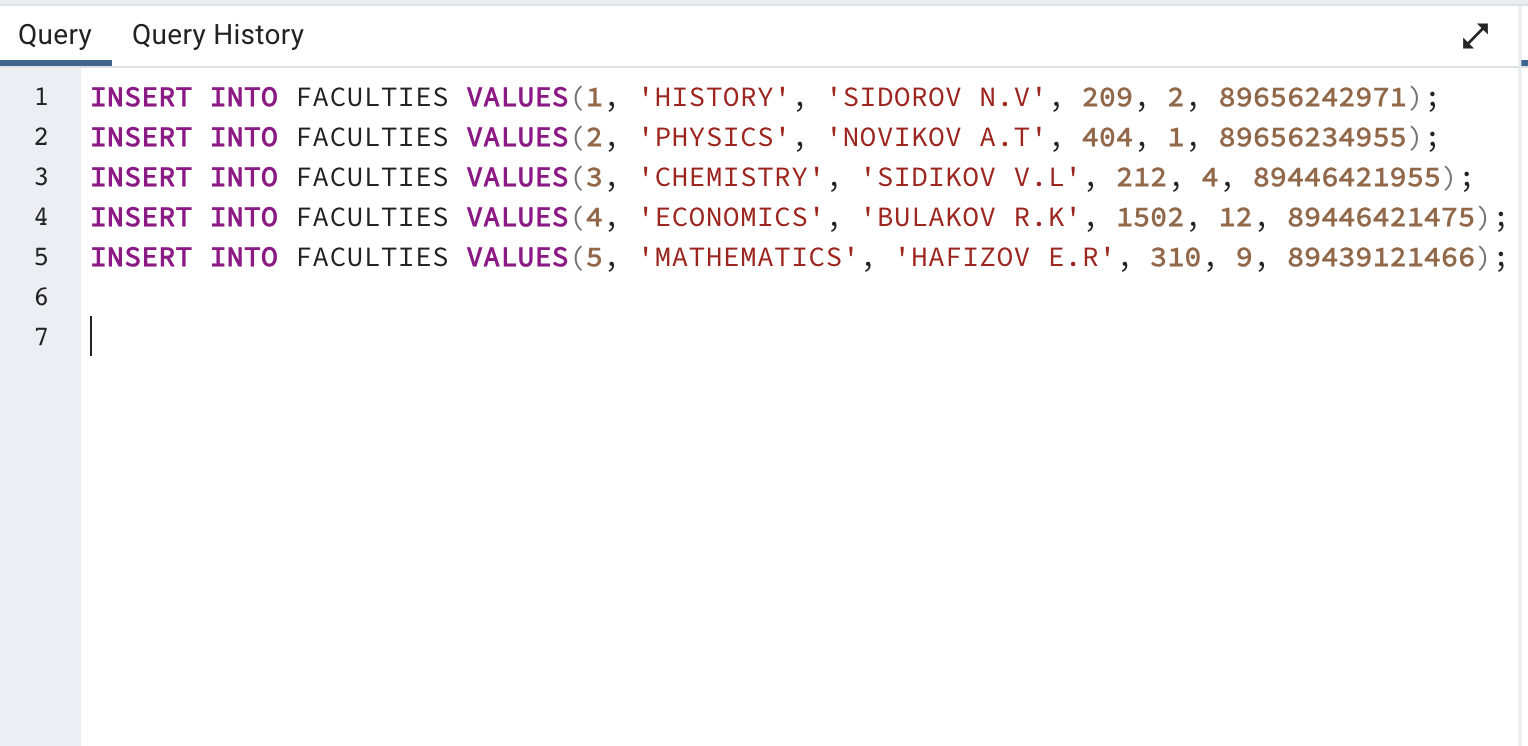
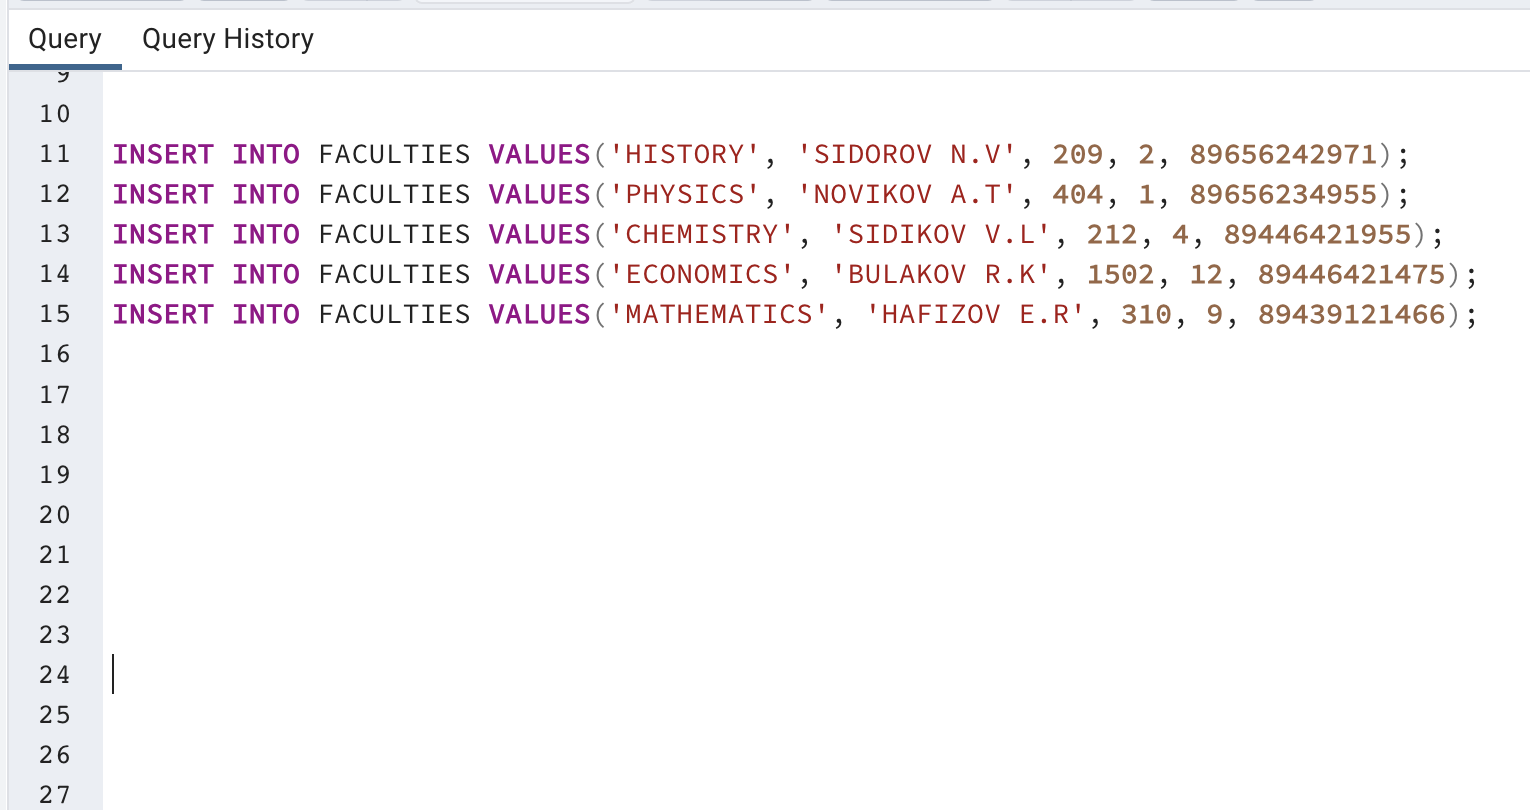
Add files via upload

diff --git a/Database/homework_2/README.md b/Database/homework_2/README.md
@@ -7,12 +7,12 @@
     - [Таблица "группы студентов"](#таблица-группы-студентов)
     - [Таблица "студенты"](#таблица-студенты)
     - [Таблица "успеваемость"](#таблица-успеваемость)
-- [Заполнение таблицы](#заполнение-таблицы)
-    - [Таблица "факультеты"](#d182d0b0d0b1d0bbd0b8d186d0b0-d184d0b0d0bad183d0bbd18cd182d0b5d182d18b-1)
-    - [Таблица "кафедры"](#d182d0b0d0b1d0bbd0b8d186d0b0-d0bad0b0d184d0b5d0b4d180d18b-1)
-    - [Таблица "группы студентов"](#d182d0b0d0b1d0bbd0b8d186d0b0-d0b3d180d183d0bfd0bfd18b-d181d182d183d0b4d0b5d0bdd182d0bed0b2-1)
-    - [Таблица "студенты"](#d182d0b0d0b1d0bbd0b8d186d0b0-d181d182d183d0b4d0b5d0bdd182d18b-1)
-    - [Таблица "успеваемость"](#d182d0b0d0b1d0bbd0b8d186d0b0-d183d181d0bfd0b5d0b2d0b0d0b5d0bcd0bed181d182d18c-1)
+- [Заполнение таблицы](#заполнение-таблиц-данными)
+    - [Таблица "факультеты"](#факультеты)
+    - [Таблица "кафедры"](#кафедры)
+    - [Таблица "группы студентов"](#группы-студентов)
+    - [Таблица "студенты"](#студенты)
+    - [Таблица "успеваемость"](#успеваемость)
 - [Установка первичных и внешних ключей](#установка-первичных-и-внешних-ключей) 
     - [Таблицы "факультеты" и "кафедры"](#таблицы-факультеты-и-кафедры)
     - [Таблицы "кафедры" и "группы студентов"](#таблицы-кафедры-и-группы-студентов)
@@ -54,12 +54,11 @@
 ```
 CREATE TABLE FACULTIES
 (
-    Id SERIAL PRIMARY KEY,
-    FACULTY_NAME VARCHAR(30),
-	DEAN_FIO VARCHAR(30),
+    FACULTY_NAME VARCHAR(100),
+	DEAN_FIO VARCHAR(100),
 	ROOM_NUMBER INTEGER,
 	BUILDING_NUMBER INTEGER,
-	PHONE_NUMBER INTEGER
+	PHONE_NUMBER BIGINT
 );
 ```
 
@@ -72,13 +71,12 @@ CREATE TABLE FACULTIES
 ```
 CREATE TABLE DEPARTMENTS
 (
-	Id SERIAL PRIMARY KEY,
-	DEPARTMENT_NAME VARCHAR(30),
-	FACULTY VARCHAR(30),
-	MANAGER_FULL_NAME VARCHAR(30),
+	DEPARTMENT_NAME VARCHAR(100),
+	FACULTY VARCHAR(100),
+	MANAGER_FULL_NAME VARCHAR(100),
 	ROOM_NUMBER INTEGER,
 	BUILDING_NUMBER INTEGER,
-	PHONE_NUMBER INTEGER,
+	PHONE_NUMBER BIGINT,
 	TEACHER_COUNT INTEGER
 );
 ```
@@ -92,7 +90,7 @@ CREATE TABLE DEPARTMENTS
 ```
 CREATE TABLE STUDY_GROUPS
 (
-	Id SERIAL PRIMARY KEY,
+	DEPARTMENT_NAME VARCHAR(100),
 	GROUP_NUMBER INTEGER,
 	ADMISSION_YEAR INTEGER,
 	STUDY_COURSE INTEGER,
@@ -109,16 +107,15 @@ CREATE TABLE STUDY_GROUPS
 ```
 CREATE TABLE STUDENTS
 (
-	Id SERIAL PRIMARY KEY,
 	STUDENT_ID INTEGER,
-	STUDENT_SURNAME VARCHAR(30),
-	STUDENT_NAME VARCHAR(30),
-	STUDENT_PATRONYMIC VARCHAR(30),
+	STUDENT_SURNAME VARCHAR(100),
+	STUDENT_NAME VARCHAR(100),
+	STUDENT_PATRONYMIC VARCHAR(100),
 	GROUP_NUMBER INTEGER,
-	GENDER VARCHAR(30),
-	ADDRESS VARCHAR(30),
-	CITY VARCHAR(30),
-	PHONE_NUMBER INTEGER
+	GENDER VARCHAR(10),
+	ADDRESS VARCHAR(100),
+	CITY VARCHAR(100),
+	PHONE_NUMBER BIGINT
 );
 ```
 
@@ -155,76 +152,78 @@ CREATE TABLE PROGRESS
 
 ---
 
-### Таблица "факультеты"
+### "Факультеты"
 
 ```
-INSERT INTO FACULTIES VALUES(1, 'HISTORY', 'SIDOROV N.V', 209, 2, 89656242971);
-INSERT INTO FACULTIES VALUES(2, 'PHYSICS', 'NOVIKOV A.T', 404, 1, 89656234955);
-INSERT INTO FACULTIES VALUES(3, 'CHEMISTRY', 'SIDIKOV V.L', 212, 4, 89446421955);
-INSERT INTO FACULTIES VALUES(4, 'ECONOMICS', 'BULAKOV R.K', 1502, 12, 89446421475);
-INSERT INTO FACULTIES VALUES(5, 'MATHEMATICS', 'HAFIZOV E.R', 310, 9, 89439121466);
+INSERT INTO FACULTIES VALUES('HISTORY', 'SIDOROV N.V', 209, 2, 89656242971);
+INSERT INTO FACULTIES VALUES('PHYSICS', 'NOVIKOV A.T', 404, 1, 89656234955);
+INSERT INTO FACULTIES VALUES('CHEMISTRY', 'SIDIKOV V.L', 212, 4, 89446421955);
+INSERT INTO FACULTIES VALUES('ECONOMICS', 'BULAKOV R.K', 1502, 12, 89446421475);
+INSERT INTO FACULTIES VALUES('MATHEMATICS', 'HAFIZOV E.R', 310, 9, 89439121466);
 ```
 ![Заполнение таблицы](images/10.png "Заполнение таблицы")
 
 ---
 
-### Таблица "кафедры"
+### "Кафедры"
 
 ```
-INSERT INTO DEPARTMENTS VALUES(1, 'HISTORY OF RUSSIA', 'HISTORY', 'IVANOV A.I', 156, 2, 89178234561, 7);
-INSERT INTO DEPARTMENTS VALUES(2, 'PHYSICS OF MOLECULAR SYSTEMS', 'PHYSICS', 'SMIRNOV E.R', 16, 1, 89196351325, 5);
-INSERT INTO DEPARTMENTS VALUES(3, 'ORGANIC AND MEDICINAL CHEMISTRY', 'CHEMISTRY', 'PETROVA V.I', 345, 4, 89172095417, 3);
-INSERT INTO DEPARTMENTS VALUES(4, 'ECONOMICS OF PRODUCTION', 'ECONOMICS', 'BULAKOV R.K', 1502, 12, 89446421475, 6);
-INSERT INTO DEPARTMENTS VALUES(5, 'GEOMETRY', 'MATHEMATICS', 'HAFIZOV E.R', 310, 9, 89439121466, 4);
+INSERT INTO DEPARTMENTS VALUES('HISTORY OF RUSSIA', 'HISTORY', 'IVANOV A.I', 156, 2, 89178234561, 7);
+INSERT INTO DEPARTMENTS VALUES('PHYSICS OF MOLECULAR SYSTEMS', 'PHYSICS', 'SMIRNOV E.R', 16, 1, 89196351325, 5);
+INSERT INTO DEPARTMENTS VALUES('ORGANIC AND MEDICINAL CHEMISTRY', 'CHEMISTRY', 'PETROVA V.I', 345, 4, 89172095417, 3);
+INSERT INTO DEPARTMENTS VALUES('ECONOMICS OF PRODUCTION', 'ECONOMICS', 'BULAKOV R.K', 1502, 12, 89446421475, 6);
+INSERT INTO DEPARTMENTS VALUES('GEOMETRY', 'MATHEMATICS', 'HAFIZOV E.R', 310, 9, 89439121466, 4);
+
 ```
 
 ![Заполнение таблицы](images/11.png "Заполнение таблицы")
 
 ---
 
-### Таблица "группы студентов"
+### "Группы студентов"
 
 ```
-INSERT INTO STUDY_GROUPS VALUES(1, 143, 2020, 4, 20);
-INSERT INTO STUDY_GROUPS VALUES(2, 201, 2022, 2, 23);
-INSERT INTO STUDY_GROUPS VALUES(3, 103, 2021, 3, 18);
-INSERT INTO STUDY_GROUPS VALUES(4, 208, 2023, 1, 28);
-INSERT INTO STUDY_GROUPS VALUES(5, 379, 2023, 1, 32);
+INSERT INTO STUDY_GROUPS VALUES('HISTORY OF RUSSIA', 143, 2020, 4, 20);
+INSERT INTO STUDY_GROUPS VALUES('PHYSICS OF MOLECULAR SYSTEMS', 201, 2022, 2, 23);
+INSERT INTO STUDY_GROUPS VALUES('ORGANIC AND MEDICINAL CHEMISTRY', 103, 2021, 3, 18);
+INSERT INTO STUDY_GROUPS VALUES('ECONOMICS OF PRODUCTION', 208, 2023, 1, 28);
+INSERT INTO STUDY_GROUPS VALUES('GEOMETRY', 379, 2023, 1, 32);
+
 ```
 
 ![Заполнение таблицы](images/12.png "Заполнение таблицы")
 
 ---
 
-### Таблица "студенты"
+### "Студенты"
 
 ```
-INSERT INTO STUDENTS VALUES(1, 'IVANOV', 'SERGEY', 'VLADIMIROVICH', 143, 'MALE', 'POBEDY AVENUE, 32', 89175328132);
-INSERT INTO STUDENTS VALUES(2, 'SIDOROV', 'IVAN', 'ALEKSEEVICH', 143, 'MALE', 'POBEDY AVENUE, 18', 89175568737);
-INSERT INTO STUDENTS VALUES(3, 'MAKAROVA', 'MARIA', 'VIKTOROVNA', 143, 'FEMALE', 'KUL GALI STREET, 5', 89195463191);
+INSERT INTO STUDENTS VALUES(1, 'IVANOV', 'SERGEY', 'VLADIMIROVICH', 143, 'MALE', 'POBEDY AVENUE, 32', 'KAZAN', 89175328132);
+INSERT INTO STUDENTS VALUES(2, 'SIDOROV', 'IVAN', 'ALEKSEEVICH', 143, 'MALE', 'POBEDY AVENUE, 18', 'KAZAN', 89175568737);
+INSERT INTO STUDENTS VALUES(3, 'MAKAROVA', 'MARIA', 'VIKTOROVNA', 143, 'FEMALE', 'KUL GALI STREET, 5', 'KAZAN', 89195463191);
 
-INSERT INTO STUDENTS VALUES(4, 'SMIRNOV', 'BORIS', 'IGOREVICH', 201, 'MALE', 'KUL GALI STREET, 43', 89652947143);
-INSERT INTO STUDENTS VALUES(5, 'FEDOTOV', 'IVAN', 'ALEKSANDROVICH', 201, 'MALE', 'RODINY STREET, 27', 89674152017);
-INSERT INTO STUDENTS VALUES(6, 'BARINOVA', 'ALINA', 'MIKHAILOVNA', 201, 'FEMALE', 'RODINY STREET, 89', 89194562238);
+INSERT INTO STUDENTS VALUES(4, 'SMIRNOV', 'BORIS', 'IGOREVICH', 201, 'MALE', 'KUL GALI STREET, 43', 'KAZAN', 89652947143);
+INSERT INTO STUDENTS VALUES(5, 'FEDOTOV', 'IVAN', 'ALEKSANDROVICH', 201, 'MALE', 'RODINY STREET, 27', 'KAZAN', 89674152017);
+INSERT INTO STUDENTS VALUES(6, 'BARINOVA', 'ALINA', 'MIKHAILOVNA', 201, 'FEMALE', 'RODINY STREET, 89', 'KAZAN', 89194562238);
 
-INSERT INTO STUDENTS VALUES(7, 'CVETKOV', 'MARK', 'SERGEEVICH', 103, 'MALE', 'CHETAEVA STREET, 24', 89165374513);
-INSERT INTO STUDENTS VALUES(8, 'RODIONOV', 'NIKITA', 'PAVLOVICH', 103, 'MALE', 'CHETAEVA STREET, 44', 89153481267);
-INSERT INTO STUDENTS VALUES(9, 'IVANOVA', 'ALISA', 'MARKOVNA', 103, 'FEMALE', 'RODINY STREET, 56', 89197629183);
+INSERT INTO STUDENTS VALUES(7, 'CVETKOV', 'MARK', 'SERGEEVICH', 103, 'MALE', 'CHETAEVA STREET, 24', 'KAZAN', 89165374513);
+INSERT INTO STUDENTS VALUES(8, 'RODIONOV', 'NIKITA', 'PAVLOVICH', 103, 'MALE', 'CHETAEVA STREET, 44', 'KAZAN', 89153481267);
+INSERT INTO STUDENTS VALUES(9, 'IVANOVA', 'ALISA', 'MARKOVNA', 103, 'FEMALE', 'RODINY STREET, 56', 'KAZAN', 89197629183);
 
-INSERT INTO STUDENTS VALUES(10, 'SIMONOV', 'IGOR', 'SERGEEVICH', 208, 'MALE', 'PUSHKINA STREET, 24', 89163501427);
-INSERT INTO STUDENTS VALUES(11, 'KARIMOV', 'TIMUR', 'IVANOVICH', 208, 'MALE', 'PUSHKINA STREET, 27', 89196574219);
-INSERT INTO STUDENTS VALUES(12, 'PETROV', 'KIRILL', 'ALEKSEEVICH', 208, 'MALE', 'PUSHKINA STREET, 98', 89174591526);
+INSERT INTO STUDENTS VALUES(10, 'SIMONOV', 'IGOR', 'SERGEEVICH', 208, 'MALE', 'PUSHKINA STREET, 24', 'KAZAN', 89163501427);
+INSERT INTO STUDENTS VALUES(11, 'KARIMOV', 'TIMUR', 'IVANOVICH', 208, 'MALE', 'PUSHKINA STREET, 27', 'KAZAN', 89196574219);
+INSERT INTO STUDENTS VALUES(12, 'PETROV', 'KIRILL', 'ALEKSEEVICH', 208, 'MALE', 'PUSHKINA STREET, 98', 'KAZAN', 89174591526);
 
-INSERT INTO STUDENTS VALUES(13, 'SMIRNOV', 'IGOR', 'MIKHAILOVICH', 379, 'MALE', 'KUL GALI STREET, 24', 89165761946);
-INSERT INTO STUDENTS VALUES(14, 'IVANOV', 'BORIS', 'VLADIMIROVICH', 379, 'MALE', 'KUL GALI STREET, 56', 89165891716);
-INSERT INTO STUDENTS VALUES(15, 'FEDOTOV', 'TIMUR', 'MARKOVICH', 379, 'MALE', 'KUL GALI STREET, 12', 89196549132);
+INSERT INTO STUDENTS VALUES(13, 'SMIRNOV', 'IGOR', 'MIKHAILOVICH', 379, 'MALE', 'KUL GALI STREET, 24', 'KAZAN', 89165761946);
+INSERT INTO STUDENTS VALUES(14, 'IVANOV', 'BORIS', 'VLADIMIROVICH', 379, 'MALE', 'KUL GALI STREET, 56', 'KAZAN', 89165891716);
+INSERT INTO STUDENTS VALUES(15, 'FEDOTOV', 'TIMUR', 'MARKOVICH', 379, 'MALE', 'KUL GALI STREET, 12', 'KAZAN', 89196549132);
 ```
 
 ![Заполнение таблицы](images/13.png "Заполнение таблицы")
 
 ---
 
-### Таблица "успеваемость"
+### "Успеваемость"
 
 ```
 INSERT INTO PROGRESS VALUES(143, 1, 'HISTORY OF RUSSIA', 5);
